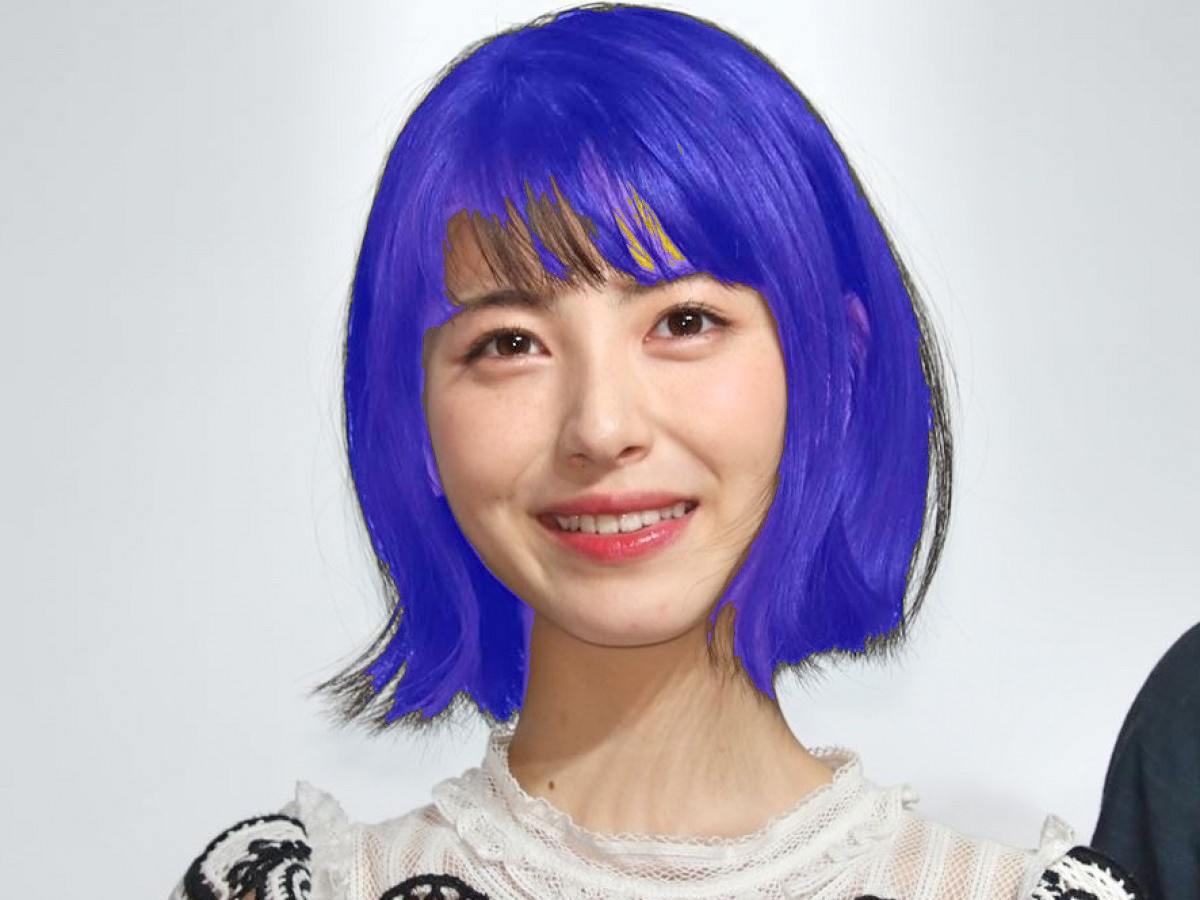
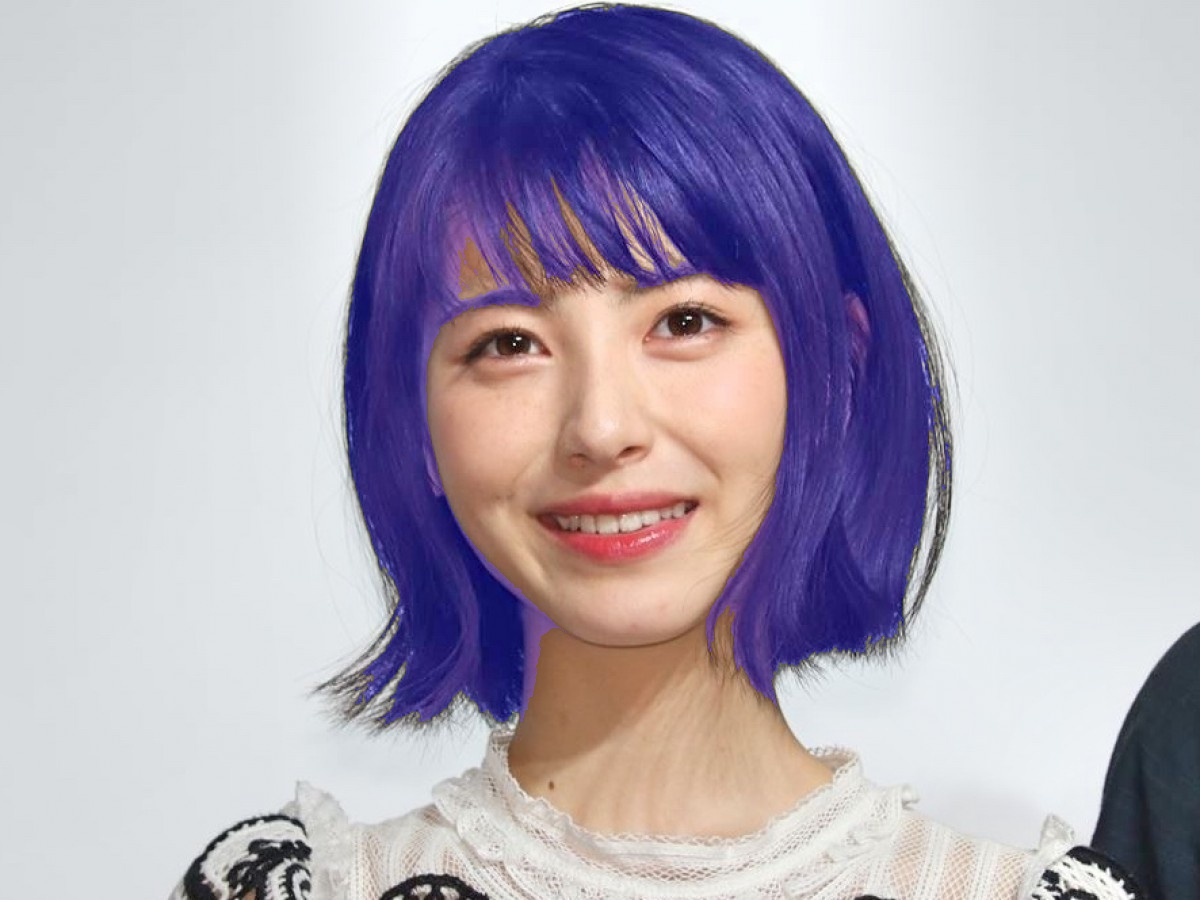
エラーはいていた部分の修正と参考画像の追加。ReadMeの更新

Changed region(s): [[0.2775, 0.0, 0.8017, 0.8089]]

diff --git a/Scripts/changeHairColor.py b/Scripts/changeHairColor.py
@@ -31,7 +31,7 @@ def changeColor(imgPath):
         
     # cv.imshow("trim",img_trim)
     gray_trim = cv.cvtColor(img_trim,cv.COLOR_BGR2GRAY)
-    ret,thresh = cv.threshold(gray_trim,80,255,cv.THRESH_BINARY)    #threshを指定して白黒にはっきりとわける
+    ret,thresh = cv.threshold(gray_trim,95,255,cv.THRESH_BINARY)    #threshを指定して白黒にはっきりとわける
     thresh = cv.bitwise_not(thresh) #白黒反転させる
     contours,hierarchy = cv.findContours(thresh,cv.RETR_EXTERNAL,cv.CHAIN_APPROX_SIMPLE)    #contoursに領域を格納
 
@@ -61,7 +61,7 @@ def changeColor(imgPath):
 
     for x in range(cnt_width):
         for y in range(cnt_height):
-            dist_img[y,x] = cv.pointPolygonTest(cnt,(x + cnt_x_min,y + cnt_y_min),True) #始点を[cnt_x_min,cnt_y_min]にあわせる
+            dist_img[y,x] = cv.pointPolygonTest(cnt,(float(x + cnt_x_min), float(y + cnt_y_min)),True) #始点を[cnt_x_min,cnt_y_min]にあわせる
             if dist_img[y,x] > 0:   #領域なの点だったら
                 # cv.circle(img_test,tuple([x + cnt_x_min,y + cnt_y_min]),1,[0,0,255],-1) #指定した座標に円を描く
                 # img_test[y + cnt_y_min,x + cnt_x_min,0] += 40

diff --git a/Scripts/main.py b/Scripts/main.py
@@ -2,7 +2,7 @@ import myUI as UI
 import tkinter as tk
 
 root = tk.Tk()
-root.title("test")
+root.title("Change Hair Color App")
 root.minsize(796,816)
 app = UI.MyApp1(master=root)
 app.mainloop()

diff --git a/README.md b/README.md
@@ -1,15 +1,4 @@
 # -Python-Change-Hair-Color
 Change hair color by using python and openCV.
 
-### First, you can launch this app by run main.py.
-### After running main.py, you can see GUI application like the image below.
-![image](https://github.com/user-attachments/assets/480e341e-c6bd-4975-8a0c-cc77bff63f83)
-
-### Press "SELECT" button and you can choose image which will be converted.
-![image](https://github.com/user-attachments/assets/b2d3d037-c381-4b2e-aff6-3c4cdddb3402)
-
-### After a few seconds, converted image will be shown in the image frame.
-![image](https://github.com/user-attachments/assets/210020dc-0586-40aa-a9c6-5bede85faed6)
-
-### You can save converted image by pressing "SAVE IMAGE" button.
-![TSU1994025_TP_V_converted](https://github.com/user-attachments/assets/4ebb820f-ca71-4614-bfa9-ed5c9db16648)
+![image](https://github.com/user-attachments/assets/692ab332-0d35-4ed0-bc7f-6fdab51572fb)
